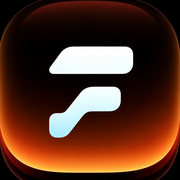
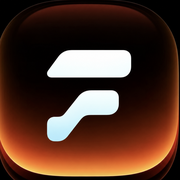
Novo ícone da tela de início
Claude-Session: https://claude.ai/code/session_01CVyG3F34rhX3eavY3RbXw6

diff --git a/index.html b/index.html
@@ -6,7 +6,7 @@
 <meta name="theme-color" content="#EDEFF6">
 <link rel="manifest" href="/manifest.webmanifest">
 <link rel="icon" href="/favicon-32.png" type="image/png" sizes="32x32">
-<link rel="apple-touch-icon" sizes="180x180" href="/apple-touch-icon.png?v=2">
+<link rel="apple-touch-icon" sizes="180x180" href="/apple-touch-icon.png?v=3">
 <meta name="apple-mobile-web-app-capable" content="yes">
 <meta name="apple-mobile-web-app-title" content="Fluid">
 <script src="https://cdn.jsdelivr.net/npm/@supabase/supabase-js@2.45.4/dist/umd/supabase.js"></script>
